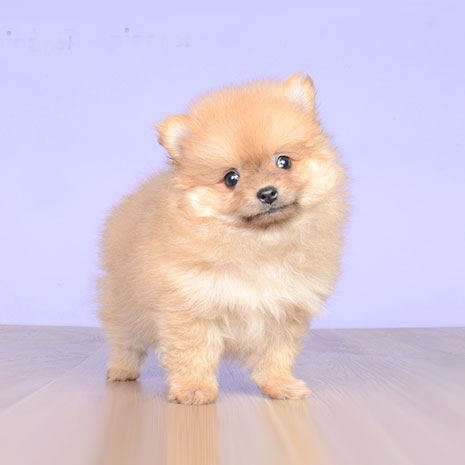
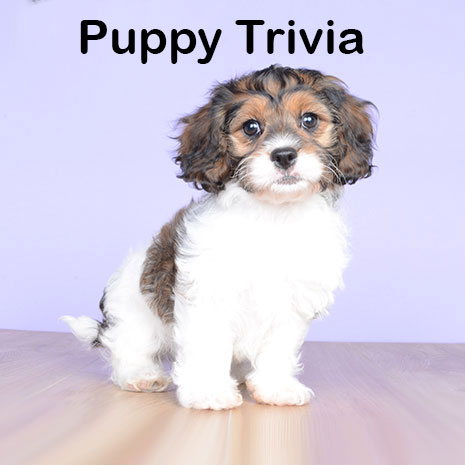
added trivia to porfolio

diff --git a/portfolio.html b/portfolio.html
@@ -30,7 +30,7 @@
                 <h4>Crystals Collector</h4>
             </div>
             <div class="portfolio-item" id="port2">
-                <h4>Port 2</h4>
+                <h4>Totally Trivia</h4>
             </div>
             <div class="portfolio-item" id="port3">
                 <h4>Port 3</h4>
@@ -73,6 +73,13 @@
         window.open("https://thomson3914.github.io/unit-4-game/","crystals", "toolbar=no,scrollbars=no,resizable=yes,top=50,left=50,width=1000,height=750");
         }
     );
+        
+        $("#port2").on("click", function() {
+        console.log("click it");      
+        window.open("https://thomson3914.github.io/TriviaGame/","trivia", "toolbar=no,scrollbars=no,resizable=yes,top=50,left=50,width=1000,height=750");
+        }
+    );
+   
     
     
     </script>
